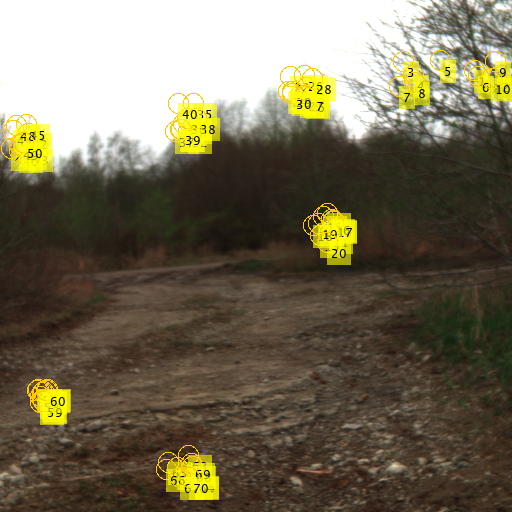
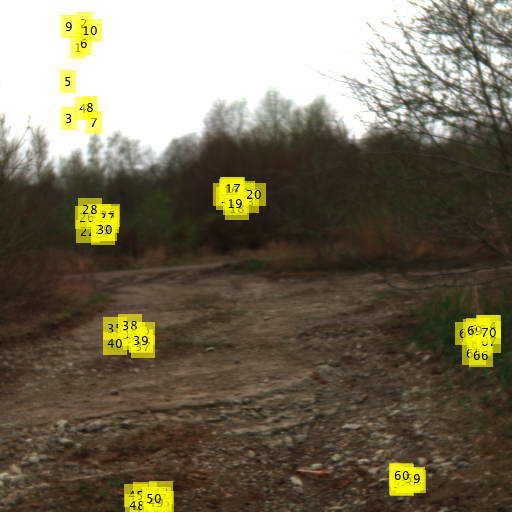
Images for thesis

diff --git a/Matlab code samples/ForThesis.m b/Matlab code samples/ForThesis.m
@@ -21,13 +21,13 @@ higResRgbRotA = higResRgbRot;
         yunit = round((r * sin(th)) + pixelListRgb(n, 2));
 
 
-        
-        for i = 1:length(xunit)
-            higResRgbRotA(yunit(i), xunit(i), :) = [0, 0, 255];
+%         
+%         for i = 1:length(xunit)
+%             higResRgbRotA(yunit(i), xunit(i), :) = [0, 0, 255];
+% 
+%         end
 
-        end
-
-        higResRgbRotA = insertText(higResRgbRotA, [645 - pixelListRgb(n, 1), pixelListRgb(n, 2)], point);
+        higResRgbRotA = insertText(higResRgbRotA, [pixelListRgb(n, 2), pixelListRgb(n, 1)], point);
         point = point + 1;
 
     end
@@ -50,11 +50,11 @@ higResRgbRotA = higResRgbRot;
         yunit = round((r * sin(th)) + pixelListHsi(n, 2));
 
 
-        for i = 1:length(xunit)
-            hsiImageA(yunit(i), xunit(i),  :) = [255, 200, 0];
-        end
+%         for i = 1:length(xunit)
+%             hsiImageA(yunit(i), xunit(i),  :) = [255, 200, 0];
+%         end
 
-        hsiImageA = insertText(hsiImageA, [512 - pixelListHsi(n, 1), pixelListHsi(n, 2)], pointHs);
+        hsiImageA = insertText(hsiImageA, [pixelListHsi(n, 2), pixelListHsi(n, 1)], pointHs);
         pointHs = pointHs + 1;
     end
     
